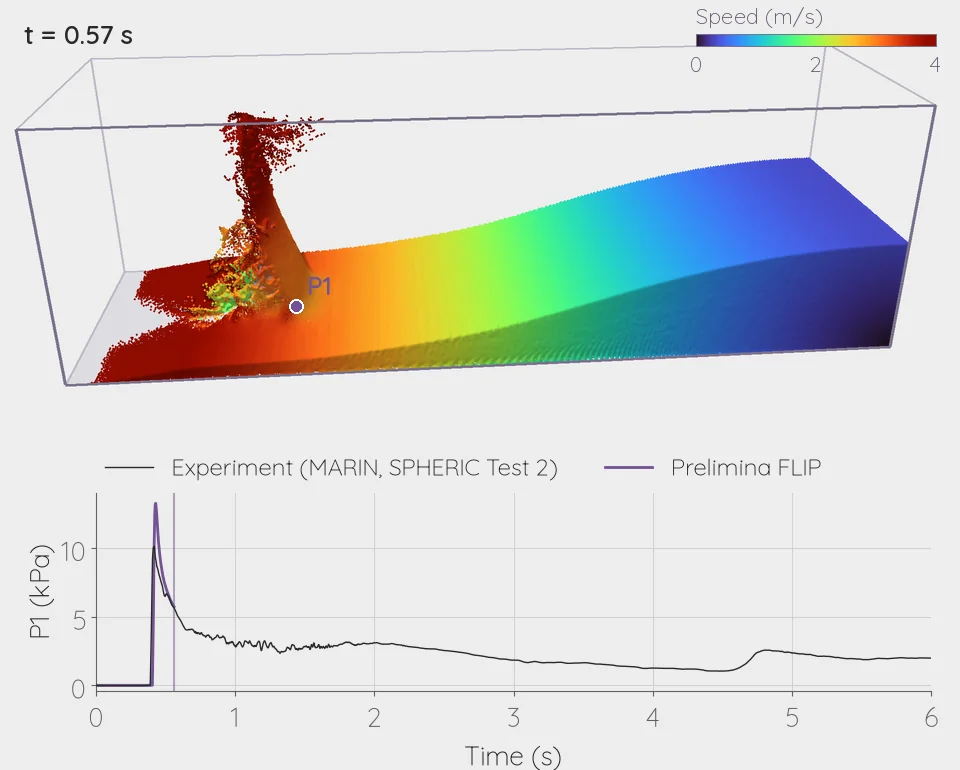
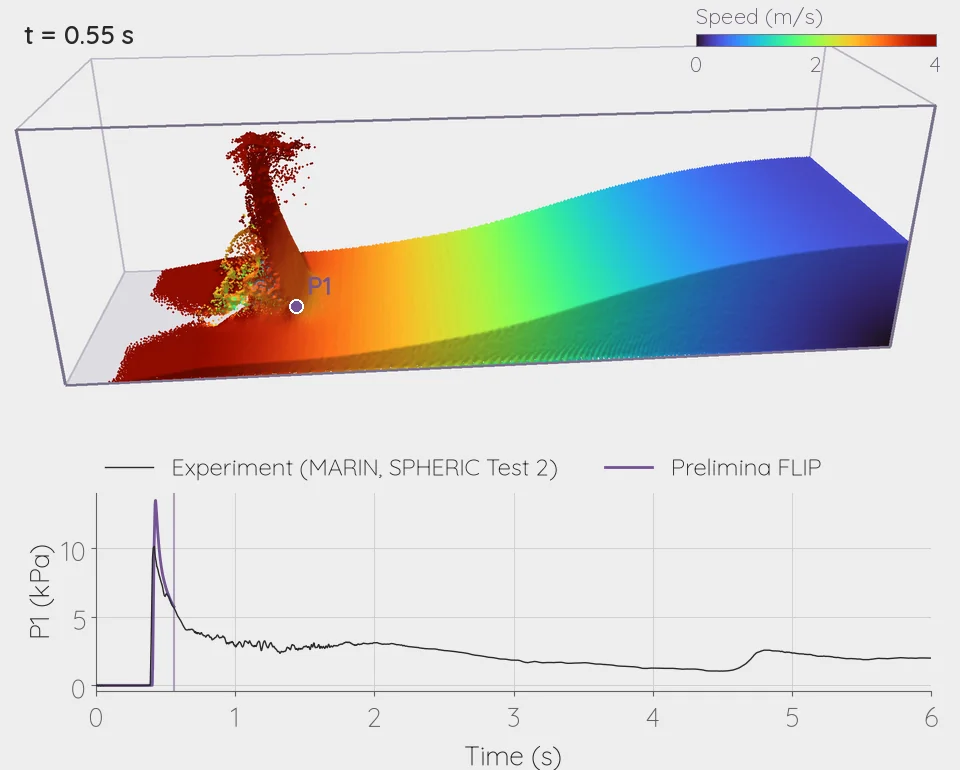
Applications: full 6 s dam-break clip; record-grid agreement
The clip is a complete repeat run on 288a4f34 (same P1/P2 impulses as the
chart run). dx 10 and dx 8 at CFL 0.4 give the same impulses; peaks are
32/17 % high on both, so impulses stay the compared quantity.

diff --git a/src/content/content.ts b/src/content/content.ts
@@ -173,7 +173,7 @@ export const showcases: readonly Application[] = [
       src: '/assets/showcases/dam-break-validation.webp',
       alt: 'Perspective view of a long tank. A column of water at the far end collapses, runs along the floor, slams into a small box and sprays over it, then sloshes back. Below it, the simulated pressure on the front of the box draws in step over the measured trace.',
       caption:
-        'The first 3.6 s of a repeat Prelimina run with the record settings, coloured by speed (0–4 m/s). The P1 trace draws in step with the view over the measured one. Development build a96e149a.',
+        'A repeat Prelimina run with the record settings, coloured by speed (0–4 m/s). The P1 trace draws in step with the view over the measured one. Development build 288a4f34, which gives the same P1 and P2 impulses as the run in the chart (+13 % and +4 %).',
       aspectRatio: '960 / 770',
       fit: 'contain',
     },
@@ -198,11 +198,11 @@ export const showcases: readonly Application[] = [
     outputs:
       'Pressure histories at the eight box sensors and four water-level histories, exported as CSV, and the live fluid view.',
     metrics:
-      'Pressure impulse over the first second at the two lowest front sensors: +13 % (P1) and +4 % (P2) against the experiment. Mean pressure from 2 to 6 s, including the reflected waves, within 5 % on all four front sensors. The impact reaches P1 to P3 within 20 ms of the measurement. Water level near the reservoir end wall: median error 8 mm over 6 s; the returning wave arrives within 0.1 s. On 13.3, 10 and 8 mm grids at CFL 2 the P1 impulse stays between +8 % and +11 %.',
+      'Pressure impulse over the first second at the two lowest front sensors: +13 % (P1) and +4 % (P2) against the experiment. Mean pressure from 2 to 6 s, including the reflected waves, within 5 % on all four front sensors. The impact reaches P1 to P3 within 20 ms of the measurement. Water level near the reservoir end wall: median error 8 mm over 6 s; the returning wave arrives within 0.1 s. At the record settings the 10 and 8 mm grids give the same impulses, +13 % and +4 %; on 13.3, 10 and 8 mm grids at CFL 2 the P1 impulse stays between +8 % and +11 %.',
     assumptions:
       'A single liquid; the air is not simulated, so trapped air pockets close freely. The gate that holds the water in the experiment is not modelled: the column is released at once. Each pressure is the average over a small sphere of water in front of the sensor, not a flush wall transducer. The tank is open at the top, as in the experiment.',
     limitation:
-      'One experiment. The two upper front sensors, P3 and P4, 0.10 and 0.14 m up and close to the top edge of the box, peak 30 % and 75 % below the measurement on every grid; the cause is not yet known. The sensors on top of the box show short spikes at about 1.5 s, up to 2.7 times the measured peak, that the experiment does not. The impact peak rises as the grid is refined, so peaks are not compared; impulses are.',
+      'One experiment. The two upper front sensors, P3 and P4, 0.10 and 0.14 m up and close to the top edge of the box, peak 30 % and 75 % below the measurement on every grid; the cause is not yet known. The sensors on top of the box show short spikes at about 1.5 s, up to 2.7 times the measured peak, that the experiment does not. The impact peaks sit 32 % (P1) and 17 % (P2) above the measurement on both record grids, and at CFL 2 they rise as the grid is refined, so impulses are compared rather than peaks.',
     nextAction: {
       label: 'Explore geometry capabilities',
       href: '/capabilities/#geometry',
